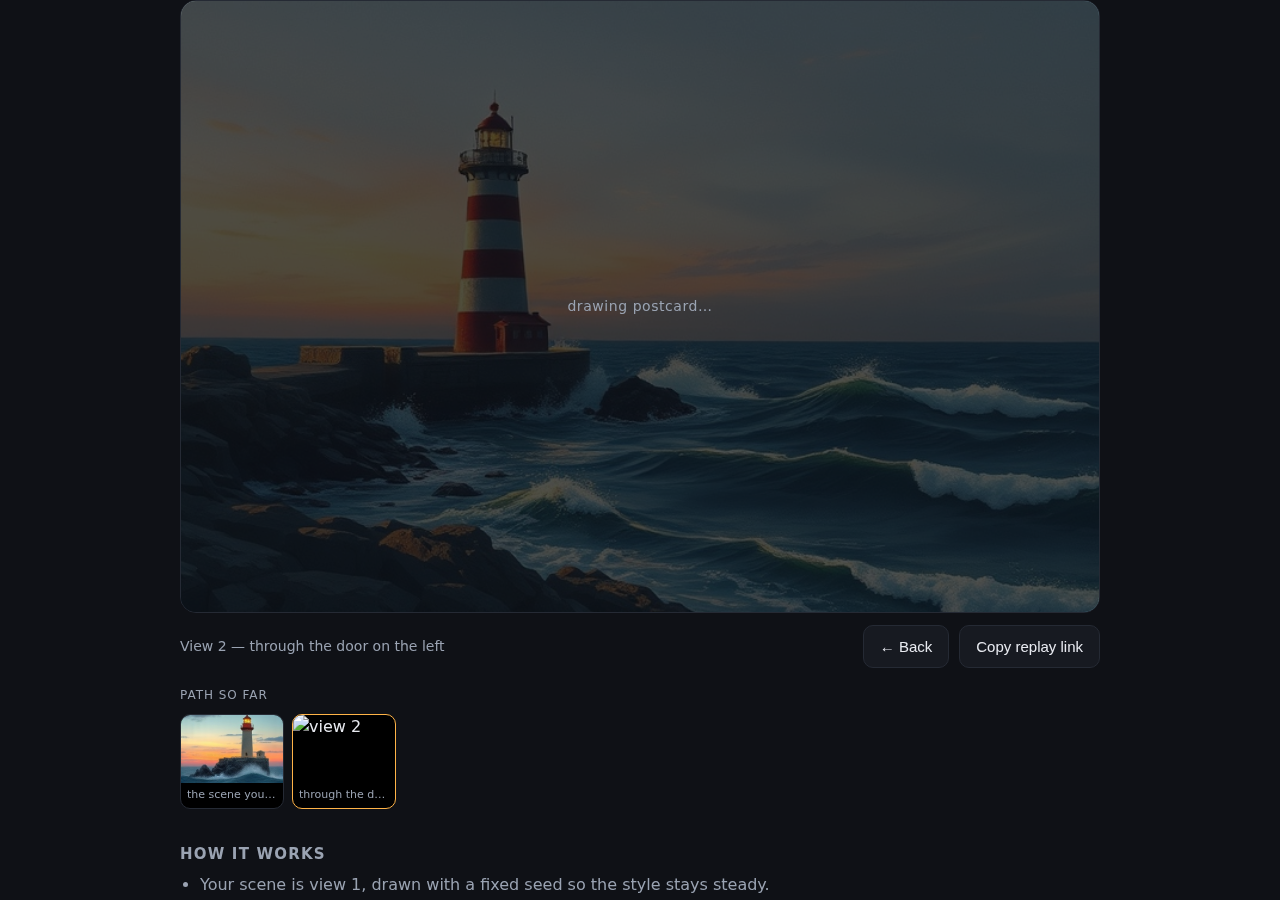
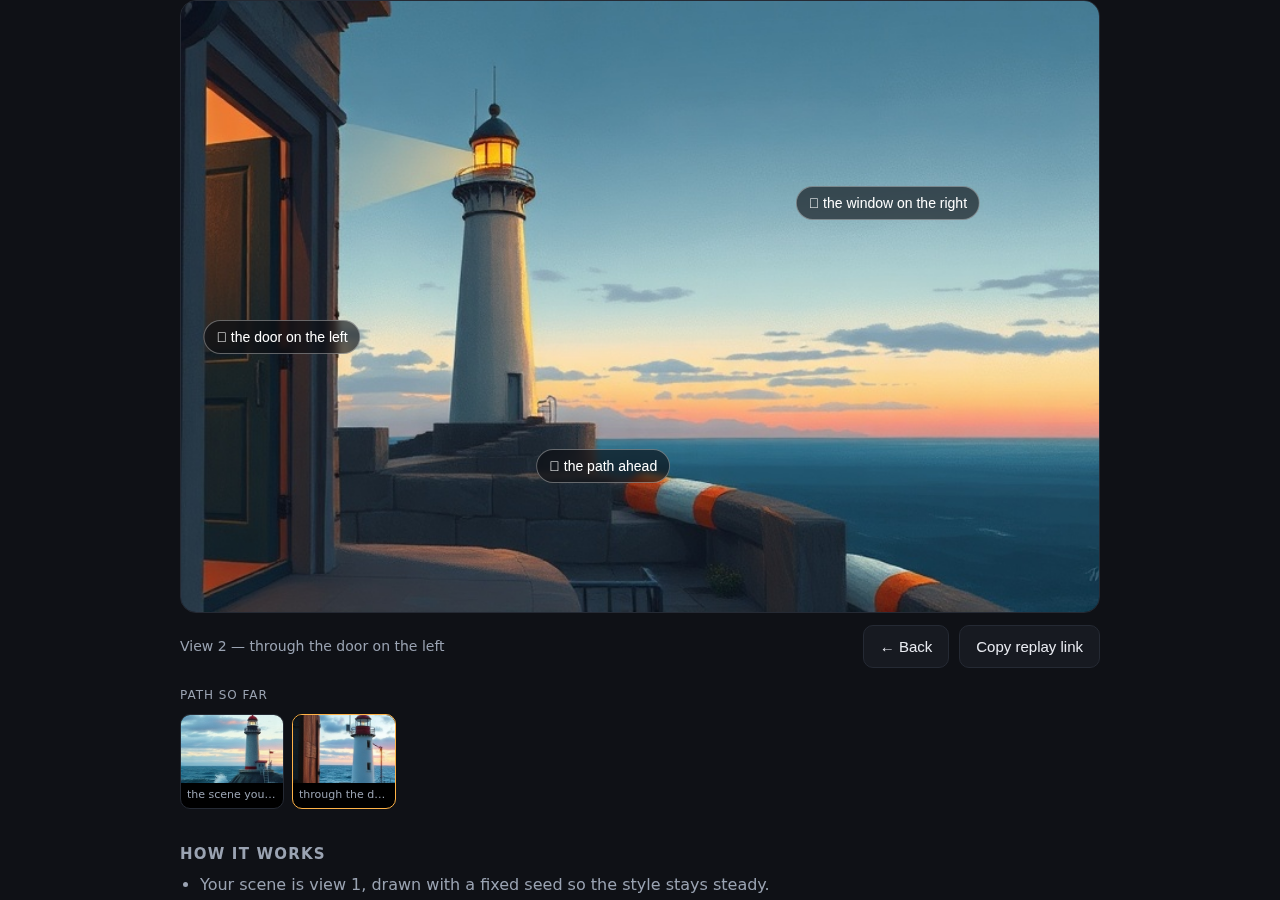
Font-safe spot markers, per-view status line

diff --git a/app.js b/app.js
@@ -164,7 +164,7 @@ function drawSpots() {
   SPOTS.forEach((s) => {
     const b = document.createElement("button");
     b.className = "spot";
-    b.textContent = s.icon + " " + s.label.replace(/^(through|along|out of) /, "");
+    b.textContent = "→ " + s.label.replace(/^(through|along|out of) /, "");
     b.style.left = s.x + "%";
     b.style.top = s.y + "%";
     b.title = "Step " + s.label;
@@ -216,6 +216,7 @@ function render() {
     $("loading").textContent = "could not draw this view (" + e.message + ") — try again";
   });
   $("caption").textContent = caption();
+  $("status").textContent = "View " + (world.route.length + 1) + " of your walk — drawn with your own Pollen.";
   $("back").disabled = world.route.length === 0;
   drawTrail();
   saveHash();
